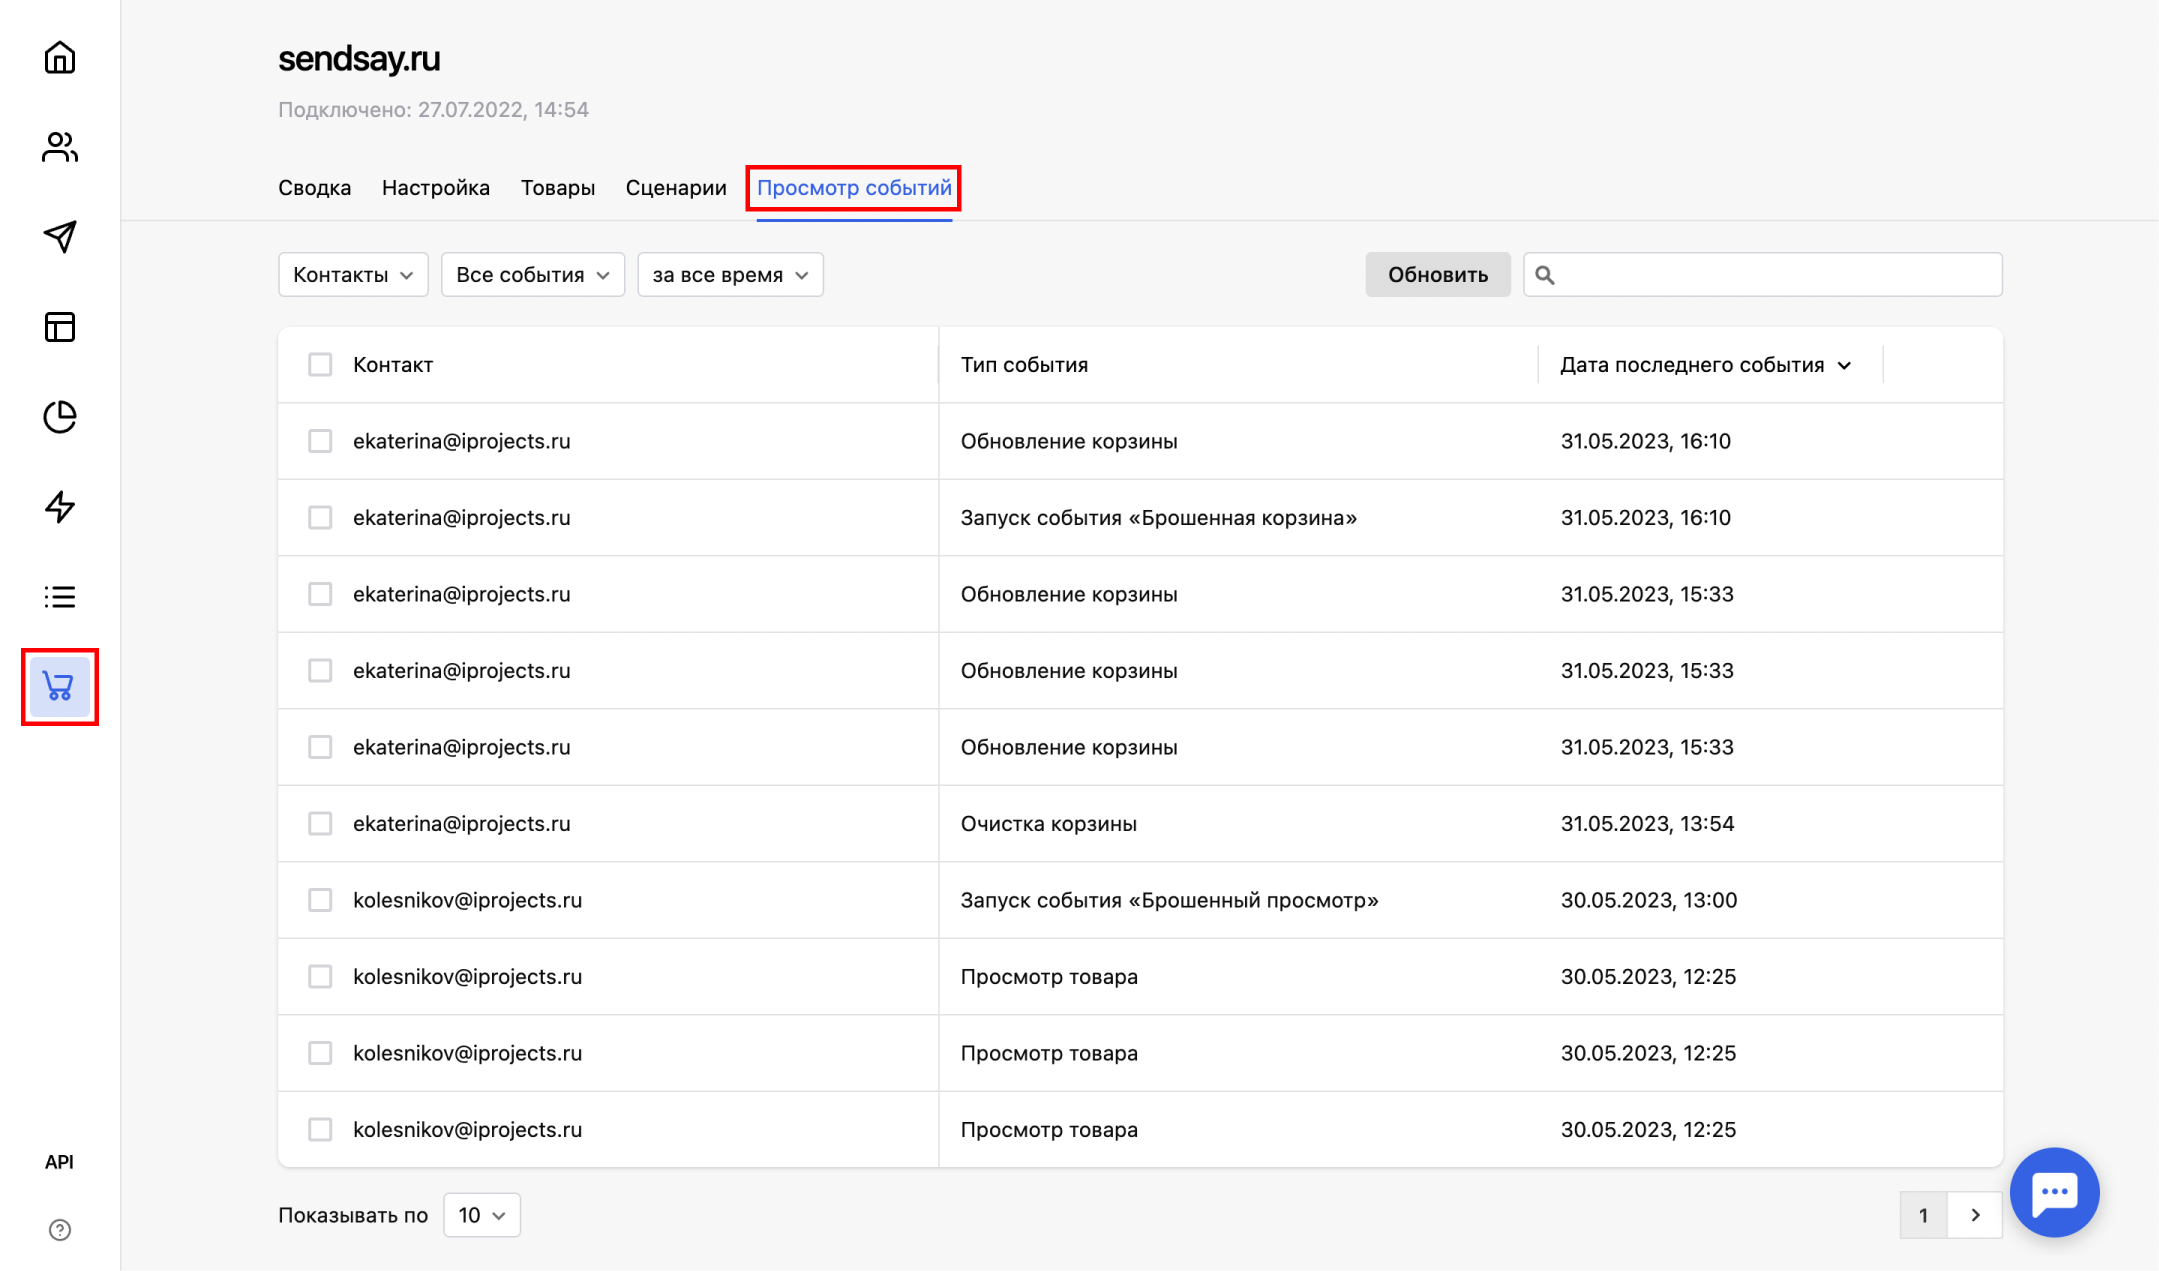
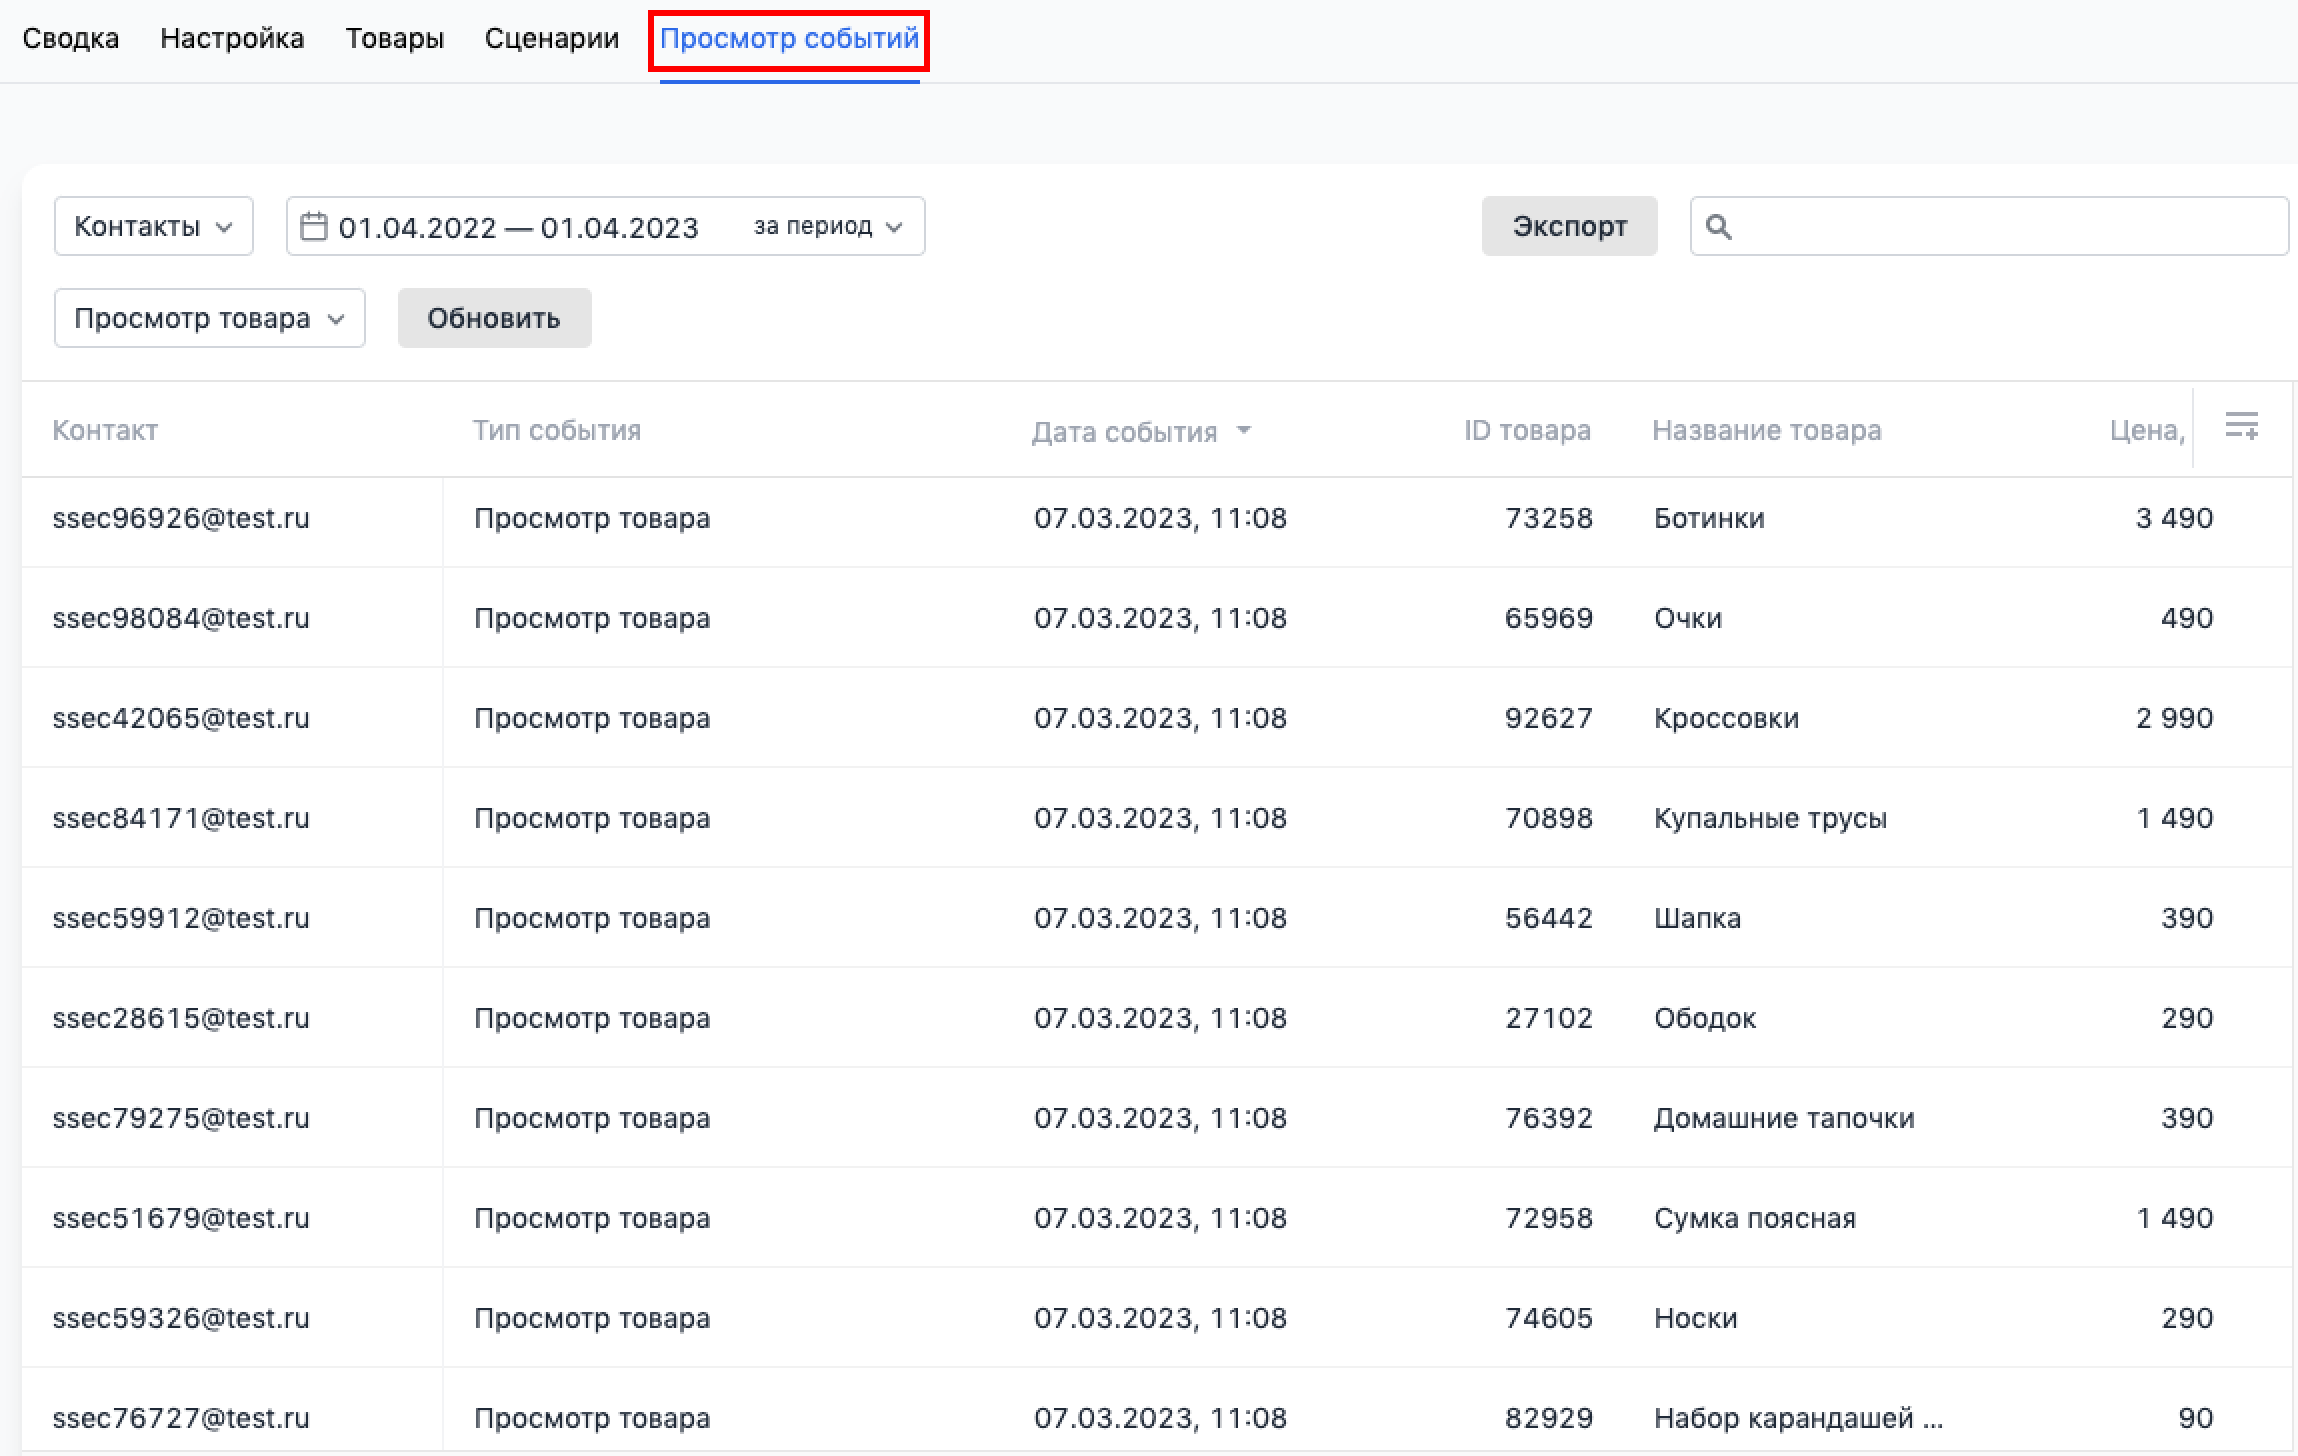
fix(sendsay-docs): edit articles to ecom (#199)

diff --git a/docs/ecom/how-to-configure-data-transfer.md b/docs/ecom/how-to-configure-data-transfer.md
@@ -716,8 +716,11 @@ typeof sndsyApi != 'undefined' && sndsyApi.runQueue();
 1. Перейдите на сайт из любой рассылки, отправленной на свой адрес из аккаунта Sendsay (тестовая копия в данном случае не подойдет). Это необходимо, чтобы установились cookie для вашего адреса, иначе события будут записываться за анонимным контактом.
 2. Перейдите на страницу товара, если у вас настроена передача события **Просмотр товара**.
 3. Откройте любую категорию, если у вас настроена передача события **Просмотр категории**.
-4. Проверьте поступление событий в разделе **События сайта**. Если вы не видите событий, отфильтруйте таблицу по Анонимным контактам и выполните п. 1.
+4. Проверьте поступление событий в разделе **Просмотр событий**. Если вы не видите событий, отфильтруйте таблицу по Анонимным контактам и выполните п.1.
    ![Event view](/img/ecom/how-to-configure-data-transfer/event-view.png)
+
+   В этой же таблице **Просмотр событий** проверьте, все ли нужные вам данные передаются в Sendsay — например, ссылки на товары. Для этого настройте нужные поля в таблице и посмотрите, все ли данные отображаются.
+
 5. Добавьте товар в корзину из галереи и из карточки товара, измените количество, удалите товар из корзины (см. [Действие с корзиной](https://docs.sendsay.ru/ecom/how-to-configure-data-transfer#действия-с-корзиной)).
 6. Проверьте совпадение товаров в корзине на сайте с теми, которые выводятся в предпросмотре шаблона сценария «Брошенная корзина» для вашего адреса:
    ![How to view email](/img/ecom/ecom-triggers/how-to-view-email1.gif)
